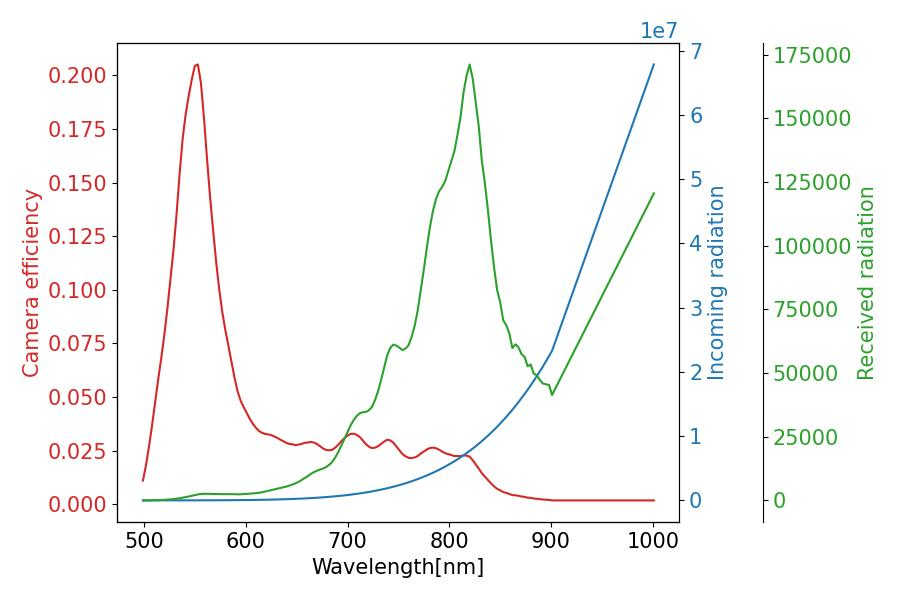
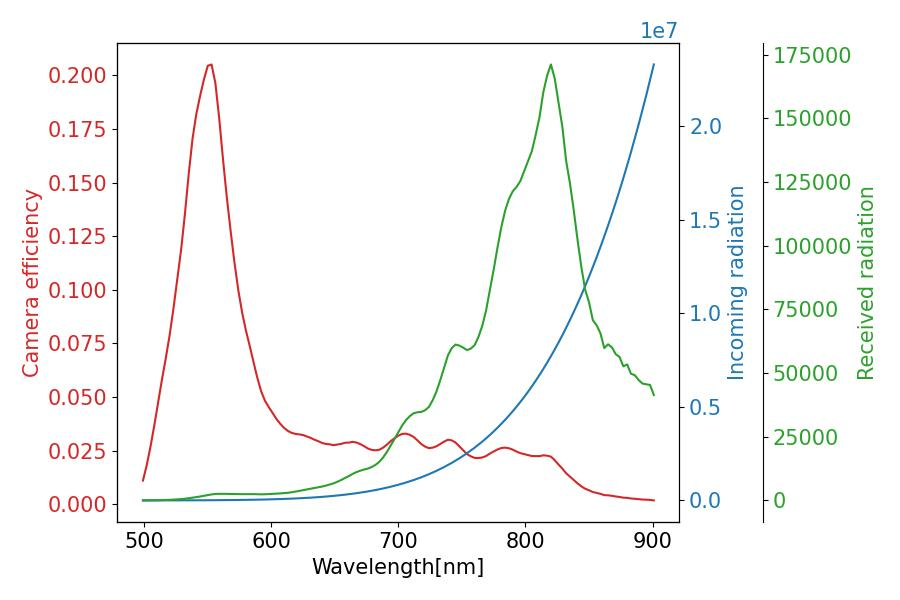
20230707 demo changed

diff --git a/program/demo/camera_frequency_response.py b/program/demo/camera_frequency_response.py
@@ -59,14 +59,14 @@ def camera_frequency_response():
     color1 = 'tab:red'
     ax1.set_xlabel('Wavelength[nm]')
     ax1.set_ylabel('Camera efficiency', color=color1)
-    ax1.plot(x, y1, color=color1)
+    ax1.plot(x[:-1], y1[:-1], color=color1)
     ax1.tick_params(axis='y', labelcolor=color1)
 
     # 创建第二个坐标轴并绘制第二个数据集
     ax2 = ax1.twinx()
     color2 = 'tab:blue'
     ax2.set_ylabel('Incoming radiation', color=color2)
-    ax2.plot(x, y2, color=color2)
+    ax2.plot(x[:-1], y2[:-1], color=color2)
     ax2.tick_params(axis='y', labelcolor=color2)
 
     # 创建第三个坐标轴并绘制第三个数据集
@@ -74,7 +74,7 @@ def camera_frequency_response():
     color3 = 'tab:green'
     ax3.spines['right'].set_position(('outward', 60))  # 将第三个坐标轴移动到右侧
     ax3.set_ylabel('Received radiation', color=color3)
-    ax3.plot(x, y3, color=color3)
+    ax3.plot(x[:-1], y3[:-1], color=color3)
     ax3.tick_params(axis='y', labelcolor=color3)
 
     # 调整图的布局
